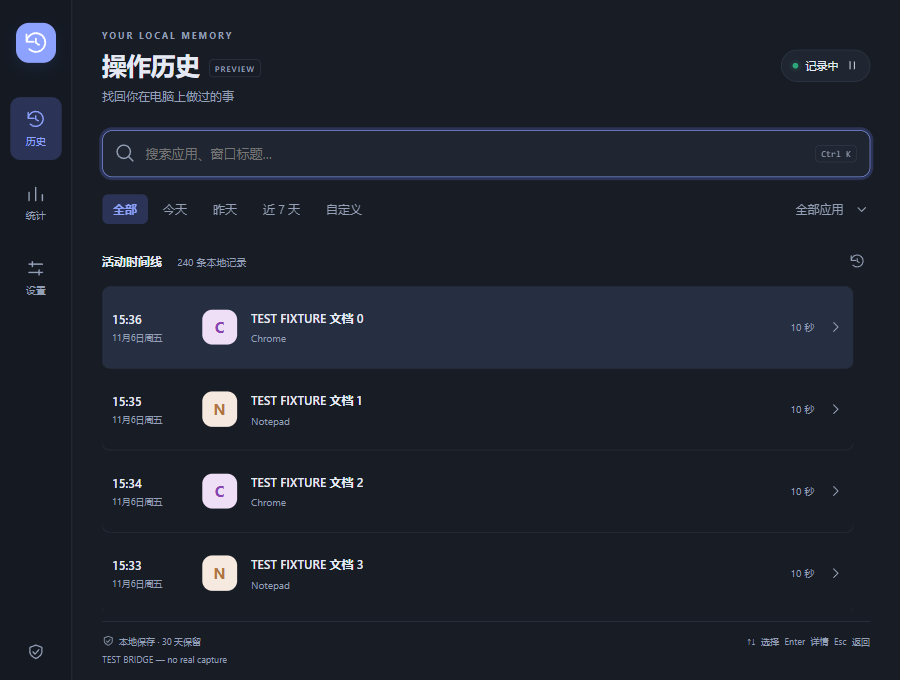
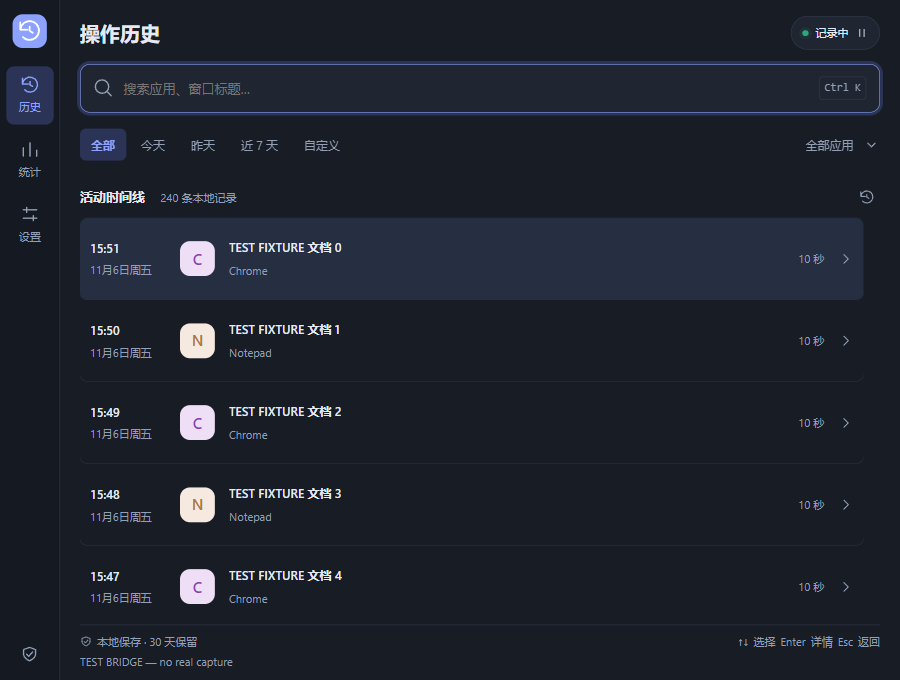
fix: fit onboarding and typography to compact uTools windows

diff --git a/src/styles/main.css b/src/styles/main.css
@@ -1,6 +1,7 @@
 @import './themes.css';
 * { box-sizing: border-box; }
-body { margin: 0; font-family: 'Segoe UI Variable', 'Segoe UI', 'Microsoft YaHei', sans-serif; font-size: 13px; color: var(--text); background: var(--bg); }
+html, body, #app { width: 100%; height: 100%; min-height: 0; margin: 0; overflow: hidden; }
+body { font-family: 'Segoe UI', 'Microsoft YaHei', sans-serif; font-size: 13px; line-height: 1.5; font-weight: 400; color: var(--text); background: var(--bg); text-shadow: none; }
 button, input, select, textarea { font: inherit; }
 button { cursor: pointer; color: inherit; } button:disabled { opacity: .45; cursor: default; }
 button, a, input, select, textarea { -webkit-tap-highlight-color: transparent; }
@@ -9,26 +10,34 @@ button { border: 0; } input, select, textarea { color: var(--text); background: 
 input[type=date] { max-width: 160px; } textarea { resize: vertical; width: 100%; line-height: 1.7; }
 h1, h2, h3, p { margin: 0; } h2 { font-size: 17px; } h3 { font-size: 14px; } p { line-height: 1.7; }
 svg { flex-shrink: 0; } .muted { color: var(--muted); font-size: 12px; margin: 7px 0 18px; }
-.app-shell { display: flex; height: 100dvh; min-height: 400px; overflow: hidden; }
-.sidebar { width: 72px; flex-shrink: 0; background: var(--sidebar); border-right: 1px solid var(--line); display: flex; flex-direction: column; align-items: center; padding: 23px 10px 16px; }
-.brand-symbol { width: 40px; height: 40px; display: grid; place-items: center; color: white; background: var(--accent); border-radius: 13px; box-shadow: 0 5px 14px #4269cd24; margin-bottom: 34px; }
-.sidebar nav { display: flex; flex-direction: column; gap: 12px; width: 100%; }.sidebar nav button { display: flex; flex-direction: column; align-items: center; gap: 5px; border-radius: 10px; padding: 12px 4px; font-size: 10px; background: transparent; color: var(--muted); }
+.app-shell { display: flex; height: 100%; min-height: 0; overflow: hidden; }
+.sidebar { width: 60px; flex-shrink: 0; background: var(--sidebar); border-right: 1px solid var(--line); display: flex; flex-direction: column; align-items: center; padding: 14px 6px 12px; }
+.brand-symbol { width: 34px; height: 34px; display: grid; place-items: center; color: white; background: var(--accent); border-radius: 10px; margin-bottom: 18px; }
+.sidebar nav { display: flex; flex-direction: column; gap: 6px; width: 100%; }.sidebar nav button { display: flex; flex-direction: column; align-items: center; gap: 4px; border-radius: 8px; padding: 9px 4px; font-size: 11px; line-height: 1.5; background: transparent; color: var(--muted); }
 .sidebar nav button:hover { background: var(--hover); }.sidebar nav button.active { color: var(--accent); background: var(--accent-soft); }.sidebar-end { margin-top: auto; color: var(--muted); }
-.workspace { min-width: 0; flex: 1; display: flex; flex-direction: column; padding: 25px 30px 12px; overflow: hidden; }
-.app-header { display: flex; align-items: center; justify-content: space-between; gap: 12px; flex-shrink: 0; margin-bottom: 24px; }.eyebrow { font-size: 9px; font-weight: 650; letter-spacing: 2px; color: var(--muted); }.app-header h1 { font-size: 25px; font-weight: 650; letter-spacing: -.7px; margin: 5px 0; }.app-header p { color: var(--muted); font-size: 12px; }.version-label { vertical-align: middle; font-size: 8px; letter-spacing: 1px; font-weight: 600; border: 1px solid var(--line); color: var(--muted); border-radius: 4px; padding: 3px 5px; margin-left: 10px; }
+.workspace { min-width: 0; min-height: 0; flex: 1; display: flex; flex-direction: column; padding: 16px 20px 10px; overflow: hidden; }
+.app-header { display: flex; align-items: center; justify-content: space-between; gap: 12px; flex-shrink: 0; min-height: 34px; margin-bottom: 14px; }.eyebrow { font-size: 11px; font-weight: 600; letter-spacing: 1px; color: var(--muted); }.app-header h1 { font-size: 20px; line-height: 1.5; font-weight: 600; letter-spacing: normal; }
 .status-pill { display: flex; align-items: center; gap: 7px; background: var(--surface); border: 1px solid var(--line); border-radius: 22px; font-size: 11px; padding: 8px 11px; white-space: nowrap; }.status-dot { width: 6px; height: 6px; border-radius: 50%; background: var(--muted); }.recording .status-dot { background: #2ca87b; box-shadow: 0 0 0 3px #2ca87b16; }.unavailable .status-dot { background: #d88546; }
-.search-box { display: flex; align-items: center; gap: 10px; background: var(--surface); border: 1px solid var(--line); padding: 4px 13px; border-radius: 10px; box-shadow: 0 2px 5px #00000003; flex-shrink: 0; }.search-box:focus-within { border-color: var(--accent); box-shadow: 0 0 0 3px var(--accent-soft); }.search-box > svg { color: var(--muted); }.search-box input { border: none; background: none; padding: 10px 0; width: 100%; outline: none; }.search-box kbd { white-space: nowrap; font-size: 9px; color: var(--muted); border: 1px solid var(--line); border-radius: 4px; padding: 3px 5px; }
+.search-box { display: flex; align-items: center; gap: 10px; background: var(--surface); border: 1px solid var(--line); padding: 4px 13px; border-radius: 10px; flex-shrink: 0; }.search-box:focus-within { border-color: var(--accent); box-shadow: 0 0 0 3px var(--accent-soft); }.search-box > svg { color: var(--muted); }.search-box input { border: none; background: none; padding: 10px 0; width: 100%; outline: none; }.search-box kbd { white-space: nowrap; font-size: 11px; color: var(--muted); border: 1px solid var(--line); border-radius: 4px; padding: 3px 5px; }
 .filter-bar { display: flex; align-items: center; justify-content: space-between; gap: 10px; margin: 15px 0 22px; flex-shrink: 0; }.date-chips { display: flex; gap: 4px; flex-wrap: wrap; }.date-chips button { padding: 7px 11px; background: transparent; color: var(--muted); border-radius: 6px; font-size: 12px; }.date-chips button:hover { background: var(--hover); }.date-chips button.active { background: var(--accent-soft); color: var(--accent); font-weight: 600; }.filter-bar select { max-width: 150px; background: transparent; border-color: transparent; color: var(--muted); font-size: 12px; }
-.history-section { flex: 1; min-height: 90px; display: flex; flex-direction: column; }.section-heading { display: flex; justify-content: space-between; align-items: center; padding-bottom: 10px; }.section-heading h2 { font-size: 12px; font-weight: 600; }.section-heading h2 span { font-size: 10px; color: var(--muted); margin-left: 12px; font-weight: 400; }.loading-line { height: 2px; width: 100%; background: transparent; flex-shrink: 0; }.loading-line.visible { background: linear-gradient(90deg, transparent, var(--accent), transparent); animation: breathe 1s infinite alternate; }
-.timeline-scroll { flex: 1; overflow: auto; min-height: 90px; scrollbar-gutter: stable; padding-right: 2px; }.event-row { position: absolute; width: 100%; display: flex; align-items: center; gap: 14px; padding: 12px 10px; text-align: left; background: transparent; border-bottom: 1px solid var(--line-soft); border-radius: 8px; }.event-row:hover { background: var(--hover); }.event-row.selected { background: var(--selected); }.event-time { width: 76px; flex-shrink: 0; display: flex; flex-direction: column; gap: 5px; }.event-time b { font-size: 12px; font-weight: 550; font-variant-numeric: tabular-nums; }.event-time span { font-size: 9px; color: var(--muted); }.app-avatar { display: grid; place-items: center; width: 35px; height: 35px; flex-shrink: 0; border-radius: 10px; color: hsl(var(--app-hue, 220) 45% 48%); background: hsl(var(--app-hue, 220) 55% 92%); font-size: 15px; font-weight: 650; }.event-copy { flex: 1; min-width: 0; display: flex; flex-direction: column; gap: 6px; }.event-copy b { font-size: 12px; font-weight: 550; white-space: nowrap; overflow: hidden; text-overflow: ellipsis; }.event-copy > span { font-size: 10px; color: var(--muted); }.event-duration { color: var(--muted); font-size: 10px; white-space: nowrap; }.event-row > svg { color: var(--muted); } mark { background: var(--mark); color: inherit; border-radius: 2px; }
+.history-section { flex: 1; min-height: 0; display: flex; flex-direction: column; }.section-heading { display: flex; justify-content: space-between; align-items: center; flex-shrink: 0; padding-bottom: 6px; }.section-heading h2 { font-size: 13px; line-height: 1.5; font-weight: 600; }.section-heading h2 span { font-size: 11px; color: var(--muted); margin-left: 12px; font-weight: 400; }.loading-line { height: 2px; width: 100%; background: transparent; flex-shrink: 0; }.loading-line.visible { background: linear-gradient(90deg, transparent, var(--accent), transparent); animation: breathe 1s infinite alternate; }
+.timeline-scroll { flex: 1; overflow: auto; min-height: 90px; scrollbar-gutter: stable; padding-right: 2px; }.event-row { position: absolute; width: 100%; display: flex; align-items: center; gap: 14px; padding: 12px 10px; text-align: left; background: transparent; border-bottom: 1px solid var(--line-soft); border-radius: 8px; }.event-row:hover { background: var(--hover); }.event-row.selected { background: var(--selected); }.event-time { width: 76px; flex-shrink: 0; display: flex; flex-direction: column; gap: 5px; }.event-time b { font-size: 12px; font-weight: 600; font-variant-numeric: tabular-nums; }.event-time span { font-size: 11px; color: var(--muted); }.app-avatar { display: grid; place-items: center; width: 35px; height: 35px; flex-shrink: 0; border-radius: 10px; color: hsl(var(--app-hue, 220) 45% 48%); background: hsl(var(--app-hue, 220) 55% 92%); font-size: 15px; font-weight: 600; }.event-copy { flex: 1; min-width: 0; display: flex; flex-direction: column; gap: 6px; }.event-copy b { font-size: 12px; font-weight: 600; white-space: nowrap; overflow: hidden; text-overflow: ellipsis; }.event-copy > span { font-size: 11px; color: var(--muted); }.event-duration { color: var(--muted); font-size: 11px; white-space: nowrap; }.event-row > svg { color: var(--muted); } mark { background: var(--mark); color: inherit; border-radius: 2px; }
 .load-more { padding: 18px; text-align: center; }.empty-state { text-align: center; padding: 55px 15px; color: var(--muted); }.empty-state > svg { margin-bottom: 14px; color: var(--accent); opacity: .6; }.empty-state h3 { color: var(--text); margin-bottom: 8px; font-weight: 500; }.empty-state p { font-size: 12px; }
-.app-footer { display: flex; justify-content: space-between; gap: 10px; align-items: center; border-top: 1px solid var(--line); padding-top: 13px; margin-top: 10px; flex-shrink: 0; font-size: 9px; color: var(--muted); }.app-footer > span:first-child { display: flex; align-items: center; gap: 5px; }.keyboard-hint { word-spacing: 3px; }.keyboard-hint kbd { font: inherit; }.runtime-note { font-size: 9px; color: var(--muted); margin-top: 6px; white-space: nowrap; overflow: hidden; text-overflow: ellipsis; }
-.button { display: inline-flex; align-items: center; justify-content: center; gap: 7px; background: var(--button); border: 1px solid var(--line); border-radius: 7px; padding: 9px 13px; font-size: 12px; }.button:hover { filter: brightness(.97); }.button.primary { background: var(--accent); color: white; border-color: var(--accent); }.button.subtle { background: transparent; border-color: transparent; color: var(--muted); }.icon-button { display: inline-flex; align-items: center; justify-content: center; background: transparent; padding: 5px; color: var(--muted); border-radius: 5px; }.icon-button:hover { background: var(--hover); }.button-group { display: flex; gap: 8px; flex-wrap: wrap; }.danger-text { color: var(--danger); }.destructive { background: var(--danger); color: white; border-color: var(--danger); }
+.app-footer { display: flex; justify-content: space-between; gap: 10px; align-items: center; border-top: 1px solid var(--line); padding-top: 8px; margin-top: 8px; flex-shrink: 0; font-size: 11px; line-height: 1.5; color: var(--muted); }.app-footer > span:first-child { display: flex; align-items: center; gap: 5px; }.keyboard-hint { word-spacing: 2px; }.keyboard-hint kbd { font: inherit; }.runtime-note { flex-shrink: 0; font-size: 11px; line-height: 1.5; color: var(--muted); margin-top: 4px; white-space: nowrap; overflow: hidden; text-overflow: ellipsis; }
+.button { display: inline-flex; align-items: center; justify-content: center; gap: 7px; background: var(--button); border: 1px solid var(--line); border-radius: 7px; padding: 8px 12px; font-size: 13px; line-height: 1.5; }.button:hover { border-color: var(--accent); }.button.primary { background: var(--accent); color: white; border-color: var(--accent); }.button.subtle { background: transparent; border-color: transparent; color: var(--muted); }.icon-button { display: inline-flex; align-items: center; justify-content: center; background: transparent; padding: 5px; color: var(--muted); border-radius: 5px; }.icon-button:hover { background: var(--hover); }.button-group { display: flex; gap: 8px; flex-wrap: wrap; }.danger-text { color: var(--danger); }.destructive { background: var(--danger); color: white; border-color: var(--danger); }
 .error-banner, .notice { display: flex; justify-content: space-between; align-items: center; gap: 10px; flex-shrink: 0; margin-bottom: 12px; padding: 10px 13px; border-radius: 7px; line-height: 1.5; font-size: 12px; }.error-banner { background: var(--error-bg); color: var(--danger); }.notice { background: var(--accent-soft); color: var(--accent); }.error-text { color: var(--danger); margin: 8px 0; }
-.onboarding { overflow: auto; flex: 1; max-width: 620px; margin: 0 auto; padding: 4px 0 20px; width: 100%; }.onboarding-art { display: flex; align-items: center; justify-content: space-between; margin-bottom: 22px; color: var(--accent); border-radius: 14px; background: linear-gradient(110deg, var(--accent-soft), var(--surface)); padding: 20px 24px; }.onboarding-art span { font-size: 14px; letter-spacing: 3px; }.onboarding h2 { font-size: 32px; line-height: 1.4; font-weight: 600; margin: 10px 0 14px; letter-spacing: -1px; }.onboarding > p { color: var(--muted); font-size: 12px; }.privacy-list { display: grid; grid-template-columns: 1fr 1fr; gap: 16px; margin: 23px 0; }.privacy-list > div { display: flex; gap: 10px; font-size: 12px; line-height: 1.7; }.privacy-list svg { color: var(--accent); }.privacy-list small { color: var(--muted); font-size: 10px; }.scope-note { font-size: 11px; color: var(--muted); background: var(--hover); padding: 12px; border-radius: 7px; margin: 14px 0; line-height: 1.7; }.onboarding-actions { display: flex; gap: 10px; margin-top: 22px; }
-.settings-view, .stats-view { flex: 1; overflow: auto; min-height: 0; padding-right: 5px; }.settings-card { padding: 20px; border: 1px solid var(--line); border-radius: 12px; background: var(--surface); margin-bottom: 16px; }.setting-line { display: flex; align-items: center; justify-content: space-between; gap: 15px; padding: 14px 0; border-bottom: 1px solid var(--line-soft); }.setting-line small, .block-label small { display: block; font-size: 10px; color: var(--muted); margin: 5px 0; }.number-input { width: 80px; }.block-label { display: block; margin: 20px 0 14px; }.storage-note { display: flex; align-items: flex-start; gap: 10px; margin: 18px 0; }.storage-note svg { color: var(--accent); }.storage-path { display: block; color: var(--muted); font-size: 10px; word-break: break-all; margin-top: 7px; }.danger-zone { margin-top: 25px; padding-top: 20px; border-top: 1px solid var(--line); }.date-range { display: flex; align-items: center; gap: 8px; flex-wrap: wrap; margin: 14px 0; }.custom-range { margin: -9px 0 15px; flex-shrink: 0; }.about { text-align: center; font-size: 10px; color: var(--muted); margin: 24px 0; }
-.stats-summary { padding: 24px 0 30px; }.stats-summary h2 { font-size: 34px; letter-spacing: -1px; margin: 12px 0 8px; }.stats-summary p { color: var(--muted); font-size: 12px; }.stat-row { display: flex; gap: 18px; align-items: center; padding: 16px 0; }.stat-row > div { flex: 1; }.rank { color: var(--muted); font-size: 11px; }.stat-row header { display: flex; justify-content: space-between; font-size: 12px; margin-bottom: 10px; }.stat-row header span { font-size: 11px; color: var(--muted); }.stat-track { height: 5px; background: var(--line-soft); border-radius: 5px; }.stat-track span { display: block; height: 100%; background: var(--accent); border-radius: 5px; }
-.modal-backdrop { position: fixed; inset: 0; z-index: 20; background: #10182b55; backdrop-filter: blur(4px); display: flex; align-items: center; justify-content: center; padding: 20px; }.modal-panel { max-width: 500px; width: 100%; max-height: 90dvh; overflow: auto; padding: 24px; border-radius: 15px; background: var(--surface); box-shadow: 0 20px 80px #0003; outline: none; }.modal-heading { display: flex; justify-content: space-between; align-items: center; margin-bottom: 22px; }.modal-heading h2 { font-size: 16px; }.detail-app { display: flex; align-items: center; gap: 12px; }.detail-app p { color: var(--muted); font-size: 11px; margin-top: 4px; }.detail-title { margin: 20px 0; line-height: 1.8; overflow-wrap: anywhere; user-select: text; }.detail-meta { margin: 0; }.detail-meta > div { display: flex; justify-content: space-between; gap: 12px; border-top: 1px solid var(--line-soft); padding: 12px 0; }.detail-meta dt { color: var(--muted); font-size: 11px; }.detail-meta dd { margin: 0; font-size: 11px; }.confirm-copy { margin-bottom: 24px; color: var(--muted); }
+.onboarding { flex: 0 0 auto; min-height: 0; width: 100%; padding: 18px; border: 1px solid var(--line); border-radius: 10px; background: var(--surface); align-self: flex-start; }
+.onboarding h2 { display: flex; align-items: center; gap: 8px; font-size: 16px; line-height: 1.5; font-weight: 600; letter-spacing: normal; }
+.onboarding h2 svg { color: var(--accent); }
+.privacy-summary { margin: 14px 0 18px; padding-left: 20px; font-size: 13px; line-height: 1.7; color: var(--text); }
+.privacy-summary li + li { margin-top: 8px; }
+.onboarding-actions { display: flex; flex-wrap: wrap; gap: 8px; }
+.onboarding-actions .primary { font-weight: 600; }
+.scope-note { font-size: 12px; color: var(--muted); background: var(--hover); padding: 12px; border-radius: 7px; margin: 14px 0; line-height: 1.7; }
+.settings-view, .stats-view { flex: 1; overflow: auto; min-height: 0; padding-right: 5px; }.settings-card { padding: 20px; border: 1px solid var(--line); border-radius: 12px; background: var(--surface); margin-bottom: 16px; }.setting-line { display: flex; align-items: center; justify-content: space-between; gap: 15px; padding: 14px 0; border-bottom: 1px solid var(--line-soft); }.setting-line small, .block-label small { display: block; font-size: 11px; color: var(--muted); margin: 5px 0; }.number-input { width: 80px; }.block-label { display: block; margin: 20px 0 14px; }.storage-note { display: flex; align-items: flex-start; gap: 10px; margin: 18px 0; }.storage-note svg { color: var(--accent); }.storage-path { display: block; color: var(--muted); font-size: 11px; word-break: break-all; margin-top: 7px; }.danger-zone { margin-top: 25px; padding-top: 20px; border-top: 1px solid var(--line); }.date-range { display: flex; align-items: center; gap: 8px; flex-wrap: wrap; margin: 14px 0; }.custom-range { margin: -9px 0 15px; flex-shrink: 0; }.about { text-align: center; font-size: 11px; color: var(--muted); margin: 24px 0; }
+.stats-summary { padding: 24px 0 30px; }.stats-summary h2 { font-size: 34px; letter-spacing: normal; margin: 12px 0 8px; }.stats-summary p { color: var(--muted); font-size: 12px; }.stat-row { display: flex; gap: 18px; align-items: center; padding: 16px 0; }.stat-row > div { flex: 1; }.rank { color: var(--muted); font-size: 11px; }.stat-row header { display: flex; justify-content: space-between; font-size: 12px; margin-bottom: 10px; }.stat-row header span { font-size: 11px; color: var(--muted); }.stat-track { height: 5px; background: var(--line-soft); border-radius: 5px; }.stat-track span { display: block; height: 100%; background: var(--accent); border-radius: 5px; }
+.modal-backdrop { position: fixed; inset: 0; z-index: 20; background: #10182b55; display: flex; align-items: center; justify-content: center; padding: 20px; }.modal-panel { max-width: 500px; width: 100%; max-height: 90dvh; overflow: auto; padding: 24px; border-radius: 15px; background: var(--surface); box-shadow: 0 20px 80px #0003; outline: none; }.modal-heading { display: flex; justify-content: space-between; align-items: center; margin-bottom: 22px; }.modal-heading h2 { font-size: 16px; }.detail-app { display: flex; align-items: center; gap: 12px; }.detail-app p { color: var(--muted); font-size: 11px; margin-top: 4px; }.detail-title { margin: 20px 0; line-height: 1.8; overflow-wrap: anywhere; user-select: text; }.detail-meta { margin: 0; }.detail-meta > div { display: flex; justify-content: space-between; gap: 12px; border-top: 1px solid var(--line-soft); padding: 12px 0; }.detail-meta dt { color: var(--muted); font-size: 11px; }.detail-meta dd { margin: 0; font-size: 11px; }.confirm-copy { margin-bottom: 24px; color: var(--muted); }
 @keyframes breathe { to { opacity: .3; } }
 @media (prefers-reduced-motion: reduce) { * { animation: none !important; scroll-behavior: auto !important; } }
-@media (max-width: 640px) { .sidebar { width: 58px; padding-inline: 5px; }.workspace { padding: 20px 16px 10px; }.app-header { margin-bottom: 20px; }.event-time { width: 65px; }.event-row { gap: 9px; padding-inline: 5px; }.event-duration { font-size: 9px; }.privacy-list { grid-template-columns: 1fr; gap: 14px; }.filter-bar { flex-wrap: wrap; }.date-chips button { padding: 7px 8px; }.app-avatar { width: 30px; height: 30px; }.keyboard-hint { display: none; }.onboarding h2 { font-size: 27px; } }
+@media (max-width: 640px) { .sidebar { width: 52px; padding-inline: 4px; }.workspace { padding: 12px 14px 8px; }.event-time { width: 66px; }.event-row { gap: 8px; padding-inline: 5px; }.filter-bar { flex-wrap: wrap; margin: 10px 0; }.date-chips button { padding: 6px 7px; }.filter-bar select { padding: 5px; max-width: 120px; }.app-avatar { width: 30px; height: 30px; }.keyboard-hint { display: none; }.onboarding { padding: 14px; } }
+@media (max-height: 440px) { .workspace { padding-top: 10px; }.app-header { margin-bottom: 10px; }.brand-symbol { margin-bottom: 10px; }.onboarding { padding: 12px; }.onboarding h2 { font-size: 15px; }.privacy-summary { margin: 8px 0 12px; line-height: 1.5; }.privacy-summary li + li { margin-top: 5px; }.runtime-note { display: none; }.filter-bar { margin: 8px 0; }.app-footer { padding-top: 6px; margin-top: 6px; } }

diff --git a/src/App.vue b/src/App.vue
@@ -15,7 +15,7 @@ const searchInput = ref<HTMLInputElement>(), timeline = ref<InstanceType<typeof 
 const labels = { not_started: '尚未开始', recording: '记录中', paused: '已暂停', unavailable: '采集不可用' }
 let poll: ReturnType<typeof setInterval>, debounce: ReturnType<typeof setTimeout>, polling = false
 watch(() => settings.value.theme, theme => { document.documentElement.dataset.theme = theme }, { immediate: true })
-watch(() => settings.value.consent, async consent => { if (consent) { await nextTick(); searchInput.value?.focus() } })
+watch(() => settings.value.consent, async consent => { if (consent) { view.value = 'history'; await nextTick(); searchInput.value?.focus() } })
 watch([q, preset, startDate, endDate, appId], () => {
   clearTimeout(debounce)
   debounce = setTimeout(() => { timeline.value?.reset(); void search(); void refreshStats() }, 120)
@@ -50,7 +50,7 @@ onUnmounted(() => { clearInterval(poll); clearTimeout(debounce); document.remove
 <template>
   <div class="app-shell">
     <aside class="sidebar"><div class="brand-symbol"><AppIcon name="history" :size="25" /></div><nav aria-label="主导航"><button v-for="tab in [{ id: 'history', icon: 'history', label: '历史' }, { id: 'statistics', icon: 'chart', label: '统计' }, { id: 'settings', icon: 'settings', label: '设置' }]" :key="tab.id" :class="{ active: view === tab.id }" :aria-label="tab.label" :aria-current="view === tab.id ? 'page' : undefined" @click="view = tab.id"><AppIcon :name="tab.icon" /><span>{{ tab.label }}</span></button></nav><span class="sidebar-end"><AppIcon name="shield" :size="18" /></span></aside>
-    <main class="workspace"><header class="app-header"><div><span class="eyebrow">YOUR LOCAL MEMORY</span><h1>操作历史<span class="version-label">PREVIEW</span></h1><p>找回你在电脑上做过的事</p></div><button class="status-pill" :class="status.state" :disabled="busy || !ready || !settings.consent" @click="toggle"><span class="status-dot" />{{ labels[status.state] }}<AppIcon :name="status.state === 'recording' ? 'pause' : 'play'" :size="13" /></button></header>
+    <main class="workspace"><header class="app-header"><h1>操作历史</h1><button class="status-pill" :class="status.state" :title="status.message" :disabled="busy || !ready || !settings.consent" @click="toggle"><span class="status-dot" />{{ labels[status.state] }}<AppIcon :name="status.state === 'recording' ? 'pause' : 'play'" :size="13" /></button></header>
       <div v-if="error" class="error-banner" role="alert"><span>{{ error }}</span><button class="button subtle" @click="initialize">重试</button></div>
       <div v-if="notice" class="notice" role="status">{{ notice }}<button class="icon-button" aria-label="关闭通知" @click="notice = ''"><AppIcon name="close" :size="15" /></button></div>
       <div v-if="loading && !ready" class="empty-state" role="status">正在打开本地数据库…</div>

diff --git a/src/views/OnboardingView.vue b/src/views/OnboardingView.vue
@@ -3,4 +3,17 @@ import AppIcon from '../components/AppIcon.vue'
 defineProps<{ busy: boolean }>()
 defineEmits<{ start: []; settings: [] }>()
 </script>
-<template><section class="onboarding"><div class="onboarding-art"><AppIcon name="history" :size="48" /><span>你的工作，自有脉络</span></div><span class="eyebrow">WELCOME TO YOUR TIMELINE</span><h2>让刚才的灵感，<br>有迹可循。</h2><p>找回使用过的应用与窗口，重新连接一天的思路。<br>无需账号，所有历史只保存在这台电脑。</p><div class="privacy-list"><div><AppIcon name="shield" /><span>记录应用名、窗口标题和时间<br><small>不截屏、不录按键、不读剪贴板</small></span></div><div><AppIcon name="settings" /><span>随时暂停、排除应用与删除记录<br><small>默认保留 30 天；敏感标题也可能出现在窗口中</small></span></div></div><p class="scope-note">当前仅在插件进程运行期间采集。uTools 完全退出后停止，不安装开机启动。首次同意前不会记录活动。</p><div class="onboarding-actions"><button class="button primary" :disabled="busy" @click="$emit('start')">同意并开始记录 <AppIcon name="chevron" :size="16" /></button><button class="button subtle" @click="$emit('settings')">先查看设置</button></div></section></template>
+<template>
+  <section class="onboarding" aria-labelledby="privacy-heading">
+    <h2 id="privacy-heading"><AppIcon name="shield" :size="20" /> 开始前，请了解记录范围</h2>
+    <ul class="privacy-summary">
+      <li>记录应用名、窗口标题和时间，仅保存在本机，默认保留 30 天。</li>
+      <li>不截屏、不录按键、不读剪贴板；标题可能含敏感信息，可在设置中排除应用。</li>
+      <li>仅在插件进程运行时记录；可随时暂停、删除，不安装自启动。</li>
+    </ul>
+    <div class="onboarding-actions">
+      <button class="button primary" :disabled="busy" @click="$emit('start')">{{ busy ? '正在启用…' : '同意并开始记录' }}<AppIcon name="chevron" :size="16" /></button>
+      <button class="button subtle" @click="$emit('settings')">设置排除应用</button>
+    </div>
+  </section>
+</template>

diff --git a/docs/rendering-review.md b/docs/rendering-review.md
@@ -1,0 +1,25 @@
+# 首次使用与紧凑窗口修复
+
+## 证据与根因
+
+本轮对话未收到可查看的截图附件，因此不能对用户截图逐像素比对，也不能确认宿主 GPU、ClearType 或 Chromium 具体版本造成的文字重影原因。
+
+通过浏览器回归测试实际复现：旧欢迎页在 800×544 已产生内部滚动，DPR 1、1.25、1.5 三项测试均失败。布局原因是宣传头图、大标题、多层说明和间距占用过多高度；欢迎区设置 overflow:auto，因此启用按钮落在滚动区域。app-shell 同时强制 min-height:400px，无法适应更矮宿主视口，外层 overflow:hidden 会造成裁切。
+
+字体检查发现 Segoe UI Variable 优先、550/650 字重、8–10px 小字及负字距；这些不是已经证实的宿主重影根因，但会增加字体回退、合成字重和小字号栅格化风险。没有发现文字复制层、text-shadow 或 CSS zoom/transform 对标题缩放的实现，不采用关闭 GPU、改系统缩放等未经证实的绕过方案。
+
+## 修复范围
+
+- 首次使用保留三条必要说明：采集内容与本地保留、敏感标题和排除、运行范围与暂停删除；删除宣传图、口号、大标题及额外介绍。
+- 自然内容高度的欢迎卡片，没有内部滚动容器；开始记录按钮明显且无需滚动。去除外壳最小高度，补全 html/body/app 高度和 flex 子区 min-height:0。
+- 缩小侧栏、头部和筛选区空隙，标题使用常规系统字体、600 字重、正常字距和明确行高；小字最低 11px，移除 hover filter、背景 blur 及无效装饰。
+- 只让历史长列表或长设置区域承担必要的纵向滚动；保留虚拟列表固定 82px 行高，避免破坏定位计算。
+- 同意启用后明确回到 history，并在 DOM 更新后聚焦搜索；不修改采集器、持久化或桥接契约。
+
+## 验证与限制
+
+新增三项 Edge headless DPR 模拟，每项验证 800×544、600×400、480×360 CSS 视口：欢迎卡片不溢出、页面无横纵溢出、启用按钮完整在屏内；启用后时间线有可用高度、搜索聚焦且能返回匹配结果。测试截图在 screenshots/onboarding-compact-dpr-*-test.png，内容由测试桥接提供，绝非宿主真实采集截图。
+
+同时执行既有浏览器流程、模块测试、类型检查、生产构建、产物检查和真实 Windows Win32→SQLite→暂停→重开测试，结果见 test-results.md。
+
+**待人工验证**：实际 Windows 100%/125%/150% 缩放、uTools 内置 Chromium 字体栅格化与文字重影、跨显示器 DPI 切换、用户当前窗口尺寸，以及小于本轮覆盖范围的窗口。DPR 模拟不改变 Windows 系统缩放或 GPU 合成环境，不能将其标为实际 DPI 验收通过。请使用新包重载后，对相同问题位置进行截图对比。

diff --git a/docs/test-results.md b/docs/test-results.md
@@ -7,7 +7,7 @@
 | 模块/领域/存储自动化测试 | 18 项通过（含退出生命周期与开发入口端口一致性回归） |
 | Vue/TypeScript 检查 | 通过 |
 | 生产构建和所有运行时依赖产物校验 | 通过 |
-| 浏览器 UI 测试 | 5 项通过，含 10 万条测试数据、分页、有界 DOM、键盘、主题、日期与应用筛选 |
+| 浏览器 UI 测试 | 本轮 8 项通过，含既有 5 项及 3 项紧凑视口/DPR 模拟；非真实 Windows DPI 验收 |
 | Windows 集成 | 2 项通过：生产 preload/WASM/契约；真实 Win32→SQLite→暂停→重开 |
 | 宿主后台、锁屏、休眠和长期性能 | 待人工验证 |
 
@@ -20,3 +20,5 @@
 本轮生命周期修复重新执行 check 和 2 项 Windows 集成检查，均通过；界面代码未变，5 项浏览器测试结果沿用上一轮，没有宣称本轮重跑。宿主回调模拟与尚未验证的实际退出行为见 [排查记录](lifecycle-review.md)。预览 ZIP 随修复重新构建，包含修复后的 preload，不属于正式发布。
 
 开发入口串项目修复：确认 5173 的进程来自 guanshi-analysis，将本项目 Vite 与 public/plugin.json 同步迁移到 127.0.0.1:5197。HTTP 实测 5197 返回操作历史 HTML，本项目原开发服务已自动重启到该端口；观市仍运行在 5173。check 再次通过；uTools 缓存配置的刷新/重载待人工验证。生产 manifest 无 development 地址，原预览 ZIP 不受此开发入口修改影响。
+
+紧凑欢迎页修复后再次通过 18 项模块测试、类型检查、生产构建与产物校验、2 项真实 Windows 集成；8 项 UI 测试重新执行。旧欢迎页溢出由新增 3 项测试先复现失败，再修复通过。截图已复查，详见 rendering-review.md；uTools 真实缩放与重影核对仍待人工测试。

diff --git a/CHANGELOG.md b/CHANGELOG.md
@@ -5,6 +5,8 @@ No official versions have been released.
 ## [Unreleased]
 
 ### Fixed
+- Compact the first-run page to essential privacy details and a visible start action; return to history and focus search after consent, including when enabled from another tab.
+- Remove forced 400px minimum height and welcome-page scrolling, reduce header/sidebar spacing, and use standard system fonts/weights without negative title tracking, hover filters or backdrop blur. Add compact viewport/DPR regression coverage; real uTools DPI rendering remains pending.
 - Move the uTools development entry and Vite server together to dedicated loopback port 5197, avoiding the Guanshi project already using 5173. Keep strict-port behavior and verify manifest/server consistency automatically.
 - Handle uTools `onPluginOut(true)` explicitly: stop capture, save the last snapshot and release the writer lock once. Hiding to background keeps the production service alive; shutdown during initialization closes a late runtime instead of exposing it.
 

diff --git a/docs/manual-verification.md b/docs/manual-verification.md
@@ -2,6 +2,8 @@
 
 以下各项均为 **待人工验证**。自动化结果不能代替本清单；建议 Windows 10、Windows 11 分别填写一次。记录系统版本、uTools 版本/运行时、屏幕缩放、日期、结果、复现步骤和脱敏证据。
 
+用户已确认上一版可在 uTools 加载，但报告首次界面问题。本轮欢迎页已修复并完成紧凑视口/DPR 模拟，新的预览包与真实 100%/125%/150% 字体渲染仍须复核，不能用旧版加载成功替代新版显示验收。见 [渲染排查](rendering-review.md)。
+
 | 编号 | 操作 | 验收要求 | 状态 |
 | --- | --- | --- | --- |
 | H01 | 开发者工具导入 dist/plugin.json，输入“操作历史” | 无 dev 服务也能打开生产界面，本地 WASM 正常初始化 | 待人工验证 |

diff --git a/README.md b/README.md
@@ -22,6 +22,8 @@
 ![浅色界面（测试数据）](docs/screenshots/history-light-test-fixtures.png)
 ![深色界面（测试数据）](docs/screenshots/history-dark-test-fixtures.png)
 
+首次使用现为紧凑隐私说明，无需滚动即可开始记录；启用后进入时间线并聚焦搜索。已覆盖 800×544、600×400、480×360 CSS 窗口和 DPR 1/1.25/1.5 浏览器模拟，不能替代 Windows/uTools 的真实显示缩放测试。见 [渲染修复记录](docs/rendering-review.md)。
+
 ## 安装与运行
 
 需要 Windows 10/11、uTools 开发者工具；开发使用 Node.js **22.18+**（本次验证为 24.18）与 npm。uTools 内置 Node/Electron 的实际兼容性仍需宿主验证，存储不依赖原生 SQLite ABI。
